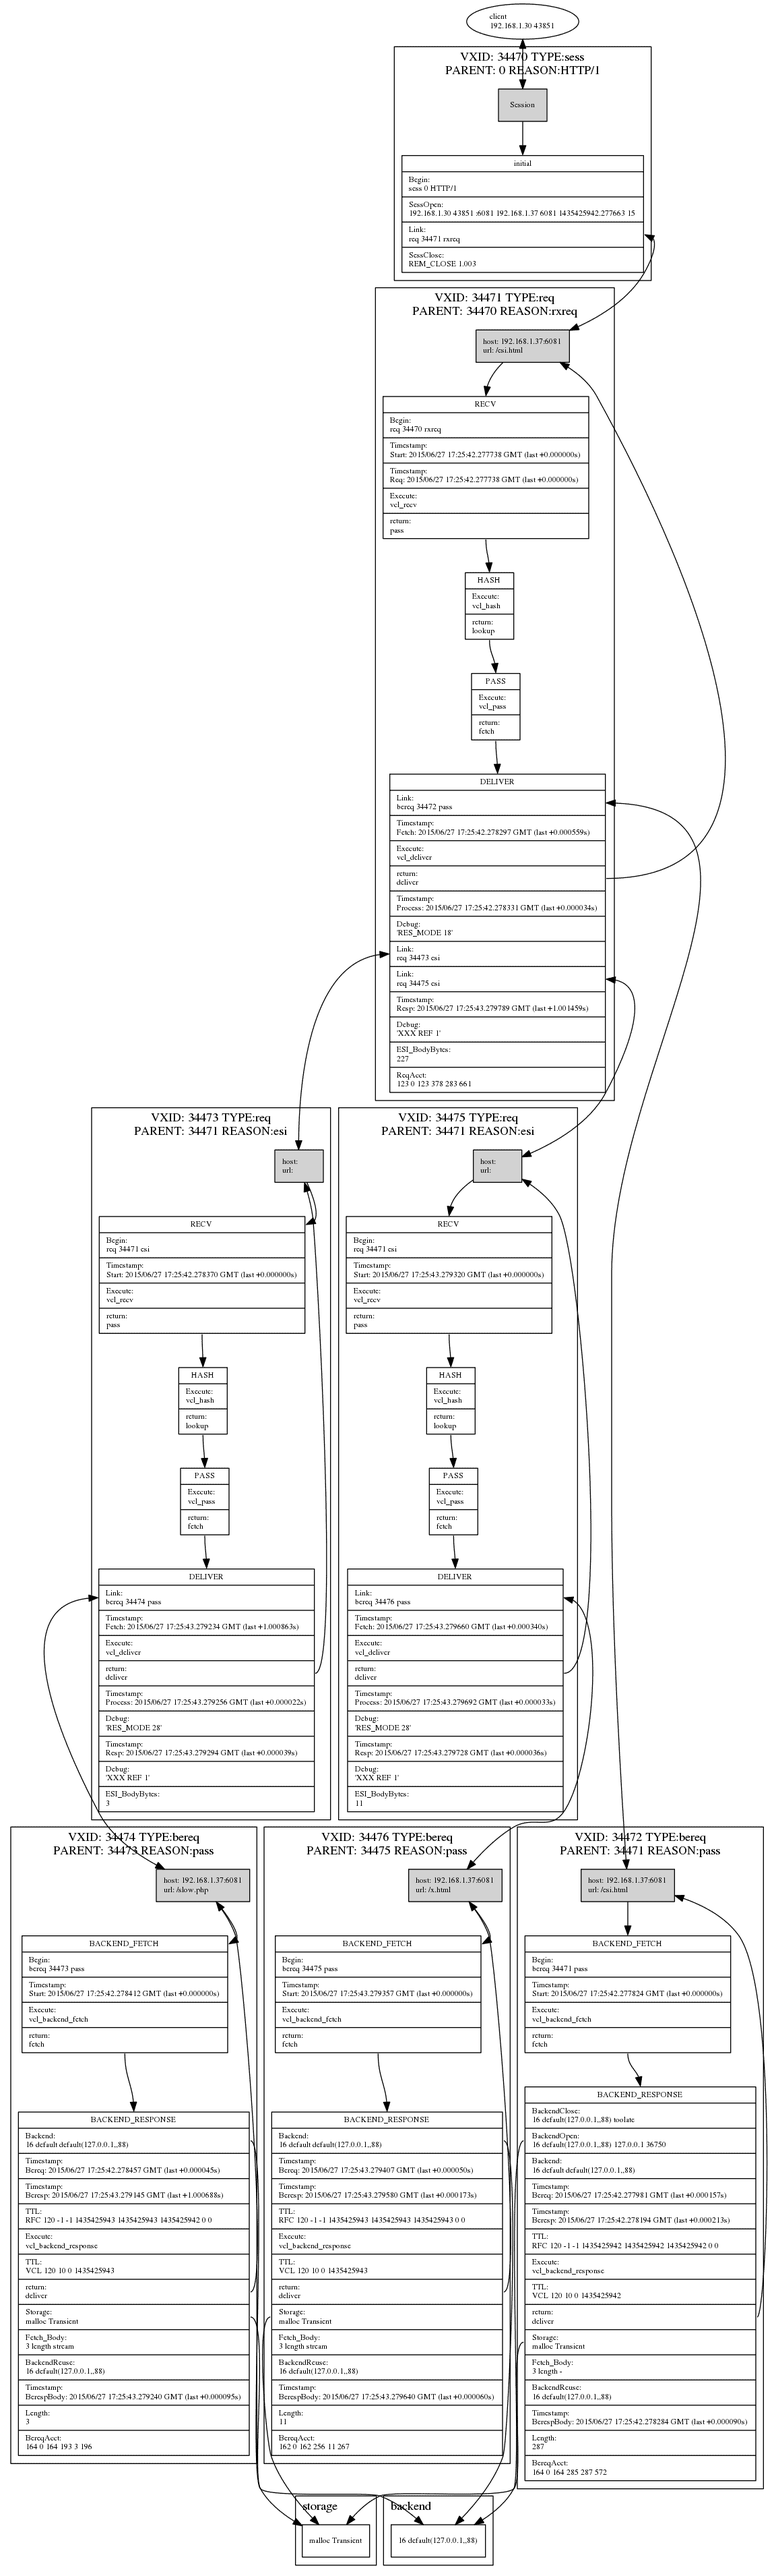
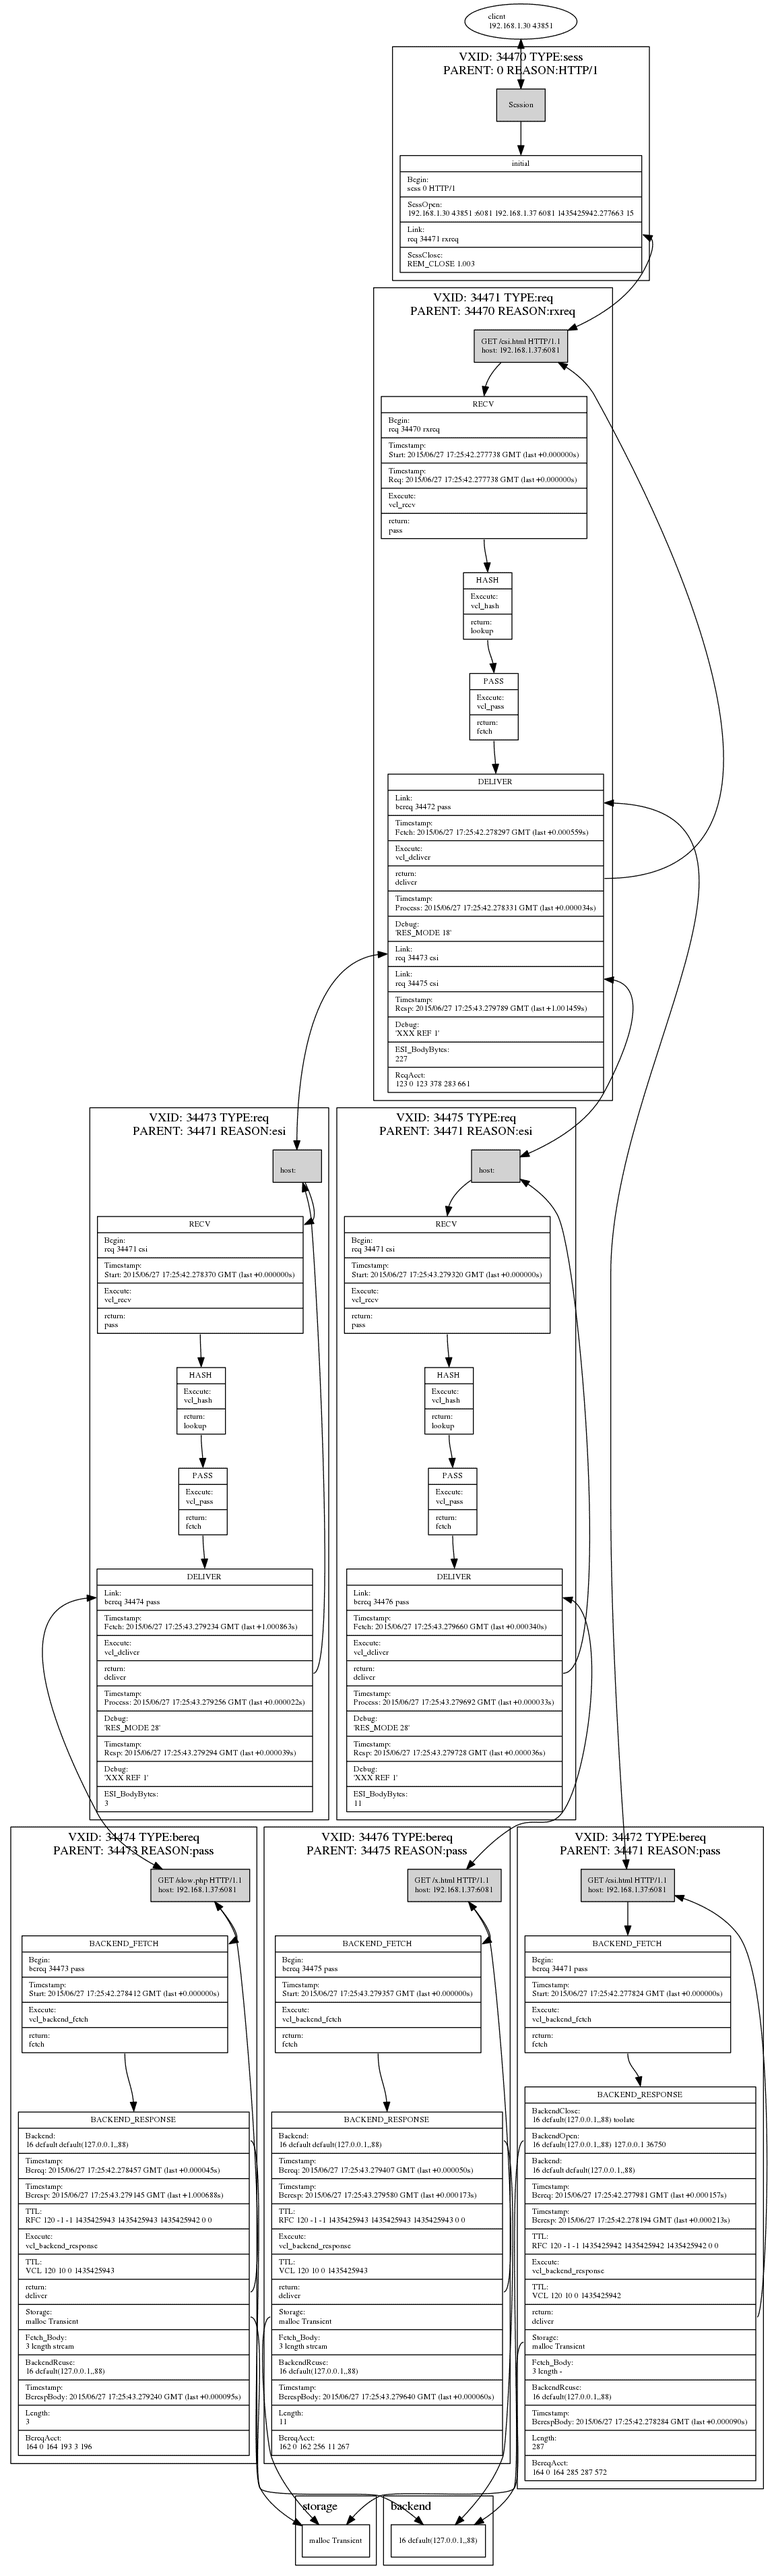
enhance output

diff --git a/vsltranscore.py b/vsltranscore.py
@@ -287,7 +287,11 @@ digraph graph_%d {
                 if 'req.http.Host' in v['act']['RECV']['init']['var']:
                     host = v['act']['RECV']['init']['var']['req.http.Host'][0]
                 if 'req.url' in v['act']['RECV']['init']['var']:
-                    url = v['act']['RECV']['init']['var']['req.url'][0]
+                    url = "%s %s %s" % (
+                        v['act']['RECV']['init']['var']['req.method'][0],
+                        v['act']['RECV']['init']['var']['req.url'][0],
+                        v['act']['RECV']['init']['var']['req.proto'][0]
+                        )
                 if v['act']['RECV']['init']['event'][0]['k'] == 'Begin':
                     begin = v['act']['RECV']['init']['event'][0]['v'].split(' ')
                 session = 0
@@ -295,7 +299,11 @@ digraph graph_%d {
                 if 'bereq.http.Host' in v['act']['BACKEND_FETCH']['init']['var']:
                     host = v['act']['BACKEND_FETCH']['init']['var']['bereq.http.Host'][0]
                 if 'bereq.url' in v['act']['BACKEND_FETCH']['init']['var']:
-                    url = v['act']['BACKEND_FETCH']['init']['var']['bereq.url'][0]
+                    url = "%s %s %s" % (
+                        v['act']['BACKEND_FETCH']['init']['var']['bereq.method'][0],
+                        v['act']['BACKEND_FETCH']['init']['var']['bereq.url'][0],
+                        v['act']['BACKEND_FETCH']['init']['var']['bereq.proto'][0]
+                        )
                 if v['act']['BACKEND_FETCH']['init']['event'][0]['k'] == 'Begin':
                     begin = v['act']['BACKEND_FETCH']['init']['event'][0]['v'].split(' ')
                 session = 0
@@ -303,7 +311,11 @@ digraph graph_%d {
                 if 'bereq.http.Host' in v['act']['PIPE']['init']['var']:
                     host = v['act']['PIPE']['init']['var']['bereq.http.Host'][0]
                 if 'bereq.url' in v['act']['PIPE']['init']['var']:
-                    url = v['act']['PIPE']['init']['var']['bereq.url'][0]
+                    url = "%s %s %s" % (
+                        v['act']['BACKEND_FETCH']['init']['var']['bereq.method'][0],
+                        v['act']['BACKEND_FETCH']['init']['var']['bereq.url'][0],
+                        v['act']['BACKEND_FETCH']['init']['var']['bereq.proto'][0]
+                        )
                 if v['act']['PIPE']['init']['event'][0]['k'] == 'Begin':
                     begin = v['act']['PIPE']['init']['event'][0]['v'].split(' ')
                 session = 0
@@ -379,7 +391,7 @@ labelloc = "t";
             if session:
                 self.add("VCL_start_%d [label=\"Session\", style=filled];\n" % (vxid))
             else:
-                self.add("VCL_start_%d [label=\"host: %s\lurl: %s\l\", style=filled];\n" % (vxid, host, url))
+                self.add("VCL_start_%d [label=\"%s\lhost: %s\l\", style=filled];\n" % (vxid, url, host))
             self.add(sg)
             self.add(act)
             self.add("};\n")
